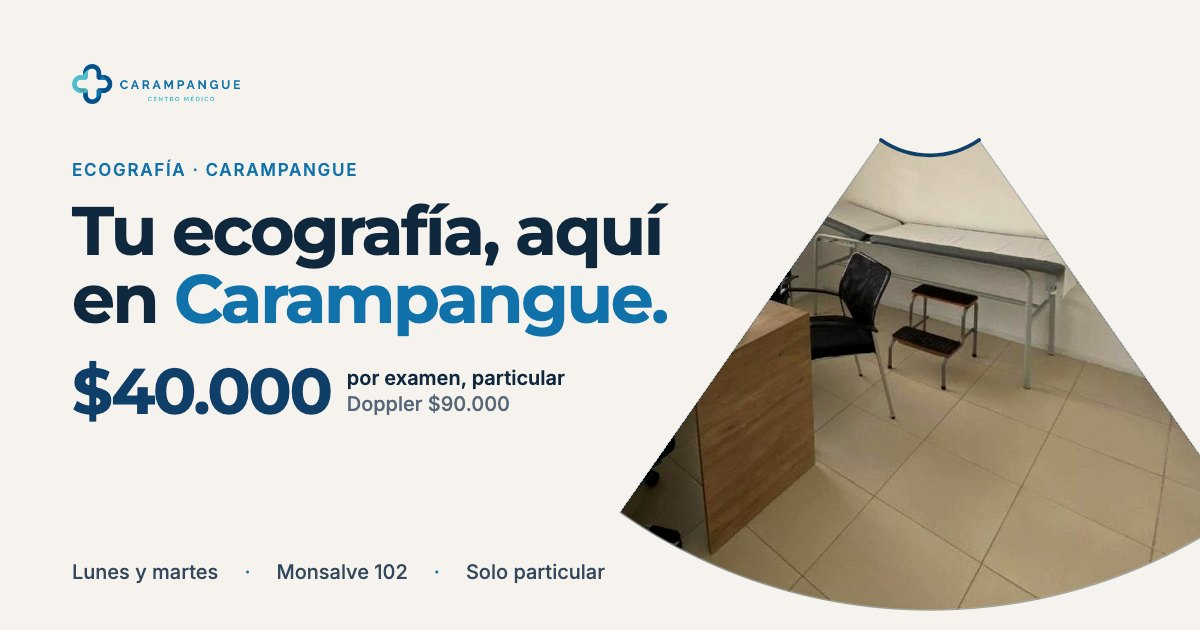
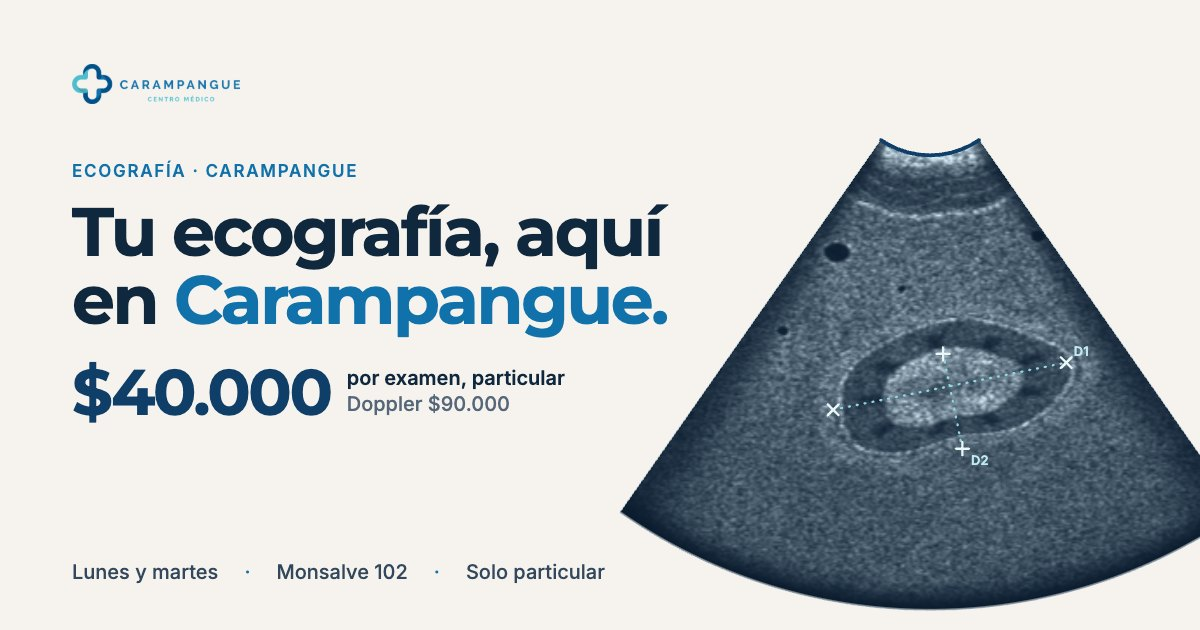
feat(web): ecografía — ilustración de eco en vez de foto del box vacío (hero + OG)

diff --git a/templates/landing_ecografia.html b/templates/landing_ecografia.html
@@ -135,9 +135,6 @@ j=d.createElement(s),dl=l!='dataLayer'?'&l='+l:'';j.async=true;j.src=
 </script>
 
 <link rel="preload" href="/static/fonts/montserrat-var-latin.woff2" as="font" type="font/woff2" crossorigin>
-<link rel="preload" as="image" type="image/webp"
-      imagesrcset="/static/images/ecografia/box-640.webp 640w, /static/images/ecografia/box-1000.webp 1000w, /static/images/ecografia/box-1280.webp 1280w"
-      imagesizes="(min-width: 980px) 46vw, 92vw" fetchpriority="high">
 
 <style>
 @font-face{font-family:'Montserrat';src:url('/static/fonts/montserrat-var-latin.woff2') format('woff2');font-weight:100 900;font-style:normal;font-display:swap;unicode-range:U+0000-00FF,U+0131,U+0152-0153,U+02BB-02BC,U+02C6,U+02DA,U+02DC,U+0304,U+0308,U+0329,U+2000-206F,U+20AC,U+2122,U+2191,U+2193,U+2212,U+2215,U+FEFF,U+FFFD}
@@ -246,14 +243,24 @@ svg.i{width:20px;height:20px;fill:none;stroke:currentColor;stroke-width:1.8;stro
   -webkit-mask-composite:source-in;
   mask-image:conic-gradient(from 145deg at 50% 0,#000 70deg,transparent 0),radial-gradient(87.2% 100% at 50% 0,transparent 15.6%,#000 16%,#000 99.6%,transparent 100%);
   mask-composite:intersect;background:var(--hueso-2)}
-.fan-img img{width:100%;height:100%;object-fit:cover;object-position:62% 60%;transform:scale(1.02);transition:transform 1.4s var(--ease);filter:brightness(1.07) contrast(1.05) saturate(1.06) sepia(.06)}
-.fan:hover .fan-img img{transform:scale(1.045)}
 .fan-img::after{content:"";position:absolute;inset:0;background:linear-gradient(180deg,rgba(15,63,104,0) 55%,rgba(15,63,104,.18) 100%);pointer-events:none}
 .fan-lines .probe{fill:none;stroke:var(--navy);stroke-width:4;stroke-linecap:round;vector-effect:non-scaling-stroke}
 .fan-lines{position:absolute;inset:0;width:100%;height:100%;overflow:visible;pointer-events:none}
 .fan-lines .ln{fill:none;stroke:var(--navy);stroke-opacity:.28;stroke-width:1.4;vector-effect:non-scaling-stroke}
 .fan-lines .tk{stroke:var(--azul);stroke-opacity:.7;stroke-width:1.4;vector-effect:non-scaling-stroke}
 .fan-lines .sw{fill:none;stroke:var(--aqua);stroke-width:2;vector-effect:non-scaling-stroke;stroke-dasharray:6 900;opacity:0}
+.fan-eco .fan-img{background:radial-gradient(70% 80% at 50% 30%,#163A57 0%,#0B263E 60%,#071A2B 100%)}
+.fan-eco .fan-img::after{background:radial-gradient(120% 95% at 50% 0,rgba(7,26,43,0) 55%,rgba(7,26,43,.55) 100%)}
+.fan-eco canvas{display:block;width:100%;height:100%}
+.fan-eco .tk{stroke:var(--aqua-2);stroke-opacity:.8}
+.fan-eco .sw{stroke:var(--aqua-2)}
+.cal-ln{fill:none;stroke:var(--aqua-2);stroke-width:1.8;stroke-dasharray:1 6;stroke-linecap:round;vector-effect:non-scaling-stroke}
+.cal-x,.cal-p{fill:none;stroke:#EAF7F9;stroke-width:1.8;stroke-linecap:round;vector-effect:non-scaling-stroke}
+.cal text{font:600 24px/1 var(--body);fill:#BFEAF0;letter-spacing:.04em}
+.eco-tag{position:absolute;left:4%;top:4%;font:600 11px/1 var(--body);letter-spacing:.12em;text-transform:uppercase;color:var(--gris)}
+.eco-tag::before{content:"";display:inline-block;width:6px;height:6px;border-radius:50%;background:var(--aqua);margin-right:8px;vertical-align:1px}
+.js .cal{opacity:0;transition:opacity .6s var(--ease) .5s}
+.js .fan-eco.drawn .cal{opacity:1}
 .hero-media{position:relative;margin:0 calc(var(--pad) * -.25)}
 @media (min-width:600px) and (max-width:979px){.hero-media{max-width:560px;margin:8px auto 0;width:100%}}
 .fan-cap{position:absolute;left:50%;transform:translateX(-50%);top:3.5%;font:600 11px/1 var(--body);letter-spacing:.09em;text-transform:uppercase;color:var(--navy);opacity:.7;white-space:nowrap}
@@ -560,13 +567,9 @@ height="0" width="0" style="display:none;visibility:hidden"></iframe></noscript>
     </div>
 
     <div class="hero-media">
-      <div class="fan" role="img" aria-label="Box de atención del Centro Médico Carampangue, con camilla y luz natural, enmarcado con la forma de una imagen de ecografía.">
-        <div class="fan-img">
-          <picture>
-            <source type="image/webp" sizes="(min-width: 980px) 46vw, 92vw" srcset="/static/images/ecografia/box-640.webp 640w, /static/images/ecografia/box-1000.webp 1000w, /static/images/ecografia/box-1280.webp 1280w">
-            <img src="/static/images/ecografia/box-1000.jpg" width="1000" height="635" alt="" fetchpriority="high" decoding="async">
-          </picture>
-        </div>
+      <div class="fan fan-eco" role="img" aria-label="Ilustración de una imagen de ecografía: un riñón con dos medidas de ejemplo marcadas con líneas punteadas.">
+        <span class="eco-tag" aria-hidden="true">Ilustración</span>
+        <div class="fan-img"><canvas id="eco-cv" width="360" height="314" aria-hidden="true"></canvas></div>
         <svg class="fan-lines" viewBox="0 0 1147 1000" preserveAspectRatio="none" aria-hidden="true">
           <path class="ln" d="M482.7 129.6 L0 818.6 M664.3 129.6 L1147 818.6"/>
           <path class="probe" d="M482.7 129.6 A160 160 0 0 0 664.3 129.6"/>
@@ -575,7 +578,95 @@ height="0" width="0" style="display:none;visibility:hidden"></iframe></noscript>
             <line x1="701" y1="182" x2="716" y2="172"/><line x1="758" y1="264" x2="773" y2="254"/><line x1="816" y1="346" x2="831" y2="336"/><line x1="873" y1="428" x2="888" y2="418"/><line x1="930" y1="510" x2="945" y2="500"/><line x1="988" y1="592" x2="1003" y2="582"/><line x1="1045" y1="674" x2="1060" y2="664"/><line x1="1102" y1="756" x2="1117" y2="746"/>
           </g>
           <path class="sw" d="M330 500 A600 600 0 0 0 817 500"/>
+          <g class="cal">
+            <path class="cal-ln" d="M394.4 628.7 L825.6 541.3"/>
+            <path class="cal-ln" d="M597.8 524.9 L633.4 700.6"/>
+            <path class="cal-x" d="M384.4 618.7 l20 20 m0 -20 l-20 20 M815.6 531.3 l20 20 m0 -20 l-20 20"/>
+            <path class="cal-p" d="M585.8 524.9 h24 m-12 -12 v24 M621.4 700.6 h24 m-12 -12 v24"/>
+            <text x="839.6" y="529.3">D1</text>
+            <text x="649.4" y="730.6">D2</text>
+          </g>
         </svg>
+        <script>(function(){
+  var c = document.getElementById('eco-cv'); if (!c || !c.getContext) return;
+  function paint(){
+    var W = 360, H = 314, S = 1147 / W;
+    c.width = W; c.height = H;
+    var ctx = c.getContext('2d'), img = ctx.createImageData(W, H), d = img.data;
+    var seed = 20261006; function rnd(){ seed = seed + 0x6D2B79F5 | 0; var t = Math.imul(seed ^ seed >>> 15, 1 | seed); t = t + Math.imul(t ^ t >>> 7, 61 | t) ^ t; return ((t ^ t >>> 14) >>> 0) / 4294967296; }
+    function ss(a, b, x){ x = Math.min(1, Math.max(0, (x - a) / (b - a))); return x * x * (3 - 2 * x); }
+    function fbm(x, y){ return Math.sin(x * .013 + Math.sin(y * .021) * 1.7) * .5 + Math.sin(y * .019 + x * .006 + 1.3) * .3 + Math.sin((x + y) * .031) * .2; }
+    var ax = 573.5, cx = 610, cy = 585, A = 220, B = 118, ca = Math.cos(-0.2), sa = Math.sin(-0.2);
+    var V = [[400,335,26,19],[772,305,15,12],[300,480,12,9],[520,402,9,7]];
+    var row = new Float32Array(W), prev = new Float32Array(W);
+    var y = 0;
+    function fila(){
+      for (var x = 0; x < W; x++){
+        var X = x * S, Y = y * S, dx = X - ax, r = Math.sqrt(dx * dx + Y * Y) / 1000, th = Math.atan2(dx, Y);
+        var w = Math.sin(th * 7 + 1.1) * .004 + Math.sin(th * 13) * .002;
+        // capas superficiales: piel, grasa con tabiques, fascia, músculo; después hígado
+        var e = .44 * (1 + .1 * fbm(X, Y));
+        var rr = r + w;
+        var skin = 1 - ss(.168, .2, rr), fat = ss(.19, .205, rr) * (1 - ss(.255, .27, rr));
+        var streak = Math.max(0, Math.sin(rr * 210 + Math.sin(th * 5) * 2.2) - .82) * 2.6;
+        var fascia = Math.exp(-Math.pow((rr - .272) / .007, 2)), musc = ss(.27, .28, rr) * (1 - ss(.32, .345, rr));
+        e = e * (1 - fat - musc) + fat * (.2 + streak * .5) + musc * (.36 + Math.max(0, Math.sin(rr * 420 + th * 3)) * .12);
+        e = Math.max(e, skin * .92, fascia * .78);
+        // vasos: anecoicos, pared fina y refuerzo posterior
+        for (var k = 0; k < 4; k++){
+          var v = V[k], vx = (X - v[0]) / v[2], vy = (Y - v[1]) / v[3], vr = Math.sqrt(vx * vx + vy * vy);
+          if (vr < 1.35){ var inside = 1 - ss(.82, 1.02, vr); e = e * (1 - inside) + .025 * inside; e += Math.exp(-Math.pow((vr - 1.08) / .1, 2)) * .35; }
+          else if (Y > v[1] && Math.abs(X - v[0]) < v[2] * .9 && Y - v[1] < 240) e *= 1 + .22 * (1 - (Y - v[1]) / 240);
+        }
+        // riñón en eje largo: contorno de poroto, cápsula, corteza, pirámides y seno
+        var px = (X - cx) * ca + (Y - cy) * sa, py = -(X - cx) * sa + (Y - cy) * ca;
+        var ang = Math.atan2(py / B, px / A), rho = Math.sqrt(px * px / (A * A) + py * py / (B * B));
+        var R = 1 + .045 * Math.sin(3 * ang + .7) + .025 * Math.sin(5 * ang + 2) - .17 * Math.exp(-Math.pow(ang - 1.57, 2) / .16);
+        var t = rho / R;
+        if (t < 1.25){
+          var fatR = ss(1.04, 1.08, t) * (1 - ss(1.16, 1.25, t));
+          var caps = Math.exp(-Math.pow((t - 1.0) / .035, 2));
+          var cortex = ss(.58, .66, t) * (1 - ss(.95, .99, t));
+          var pyr = Math.max(0, Math.cos(9 * (ang + .25)) - .35) / .65 * ss(.58, .64, t) * (1 - ss(.78, .86, t));
+          var sinus = 1 - ss(.56, .64, t);
+          var inner = (.28 + .04 * fbm(X * 2, Y * 2)) * (1 - pyr * .7);
+          var sin = .58 + .3 * (fbm(X * 3.1, Y * 2.7) * .5 + .5) - .35 * Math.exp(-Math.pow(py / (B * .14), 2) - Math.pow(px / (A * .42), 2));
+          var kid = cortex * inner + sinus * sin;
+          var inK = 1 - ss(.97, 1.02, t);
+          e = e * (1 - inK) * (1 - fatR) + fatR * .58 + inK * kid;
+          e = Math.max(e, caps * .9);
+        }
+        // atenuación en profundidad y en los bordes del sector
+        e *= 1 - Math.max(0, r - .4) * .6;
+        e *= 1 - ss(.47, .61, Math.abs(th)) * .75;
+        e *= 1 - ss(.93, 1.0, r);
+        var u = rnd() || 1e-6; row[x] = e * Math.sqrt(-2 * Math.log(u)) * .62;
+      }
+      for (var x2 = 0; x2 < W; x2++){
+        var a = row[x2 > 0 ? x2 - 1 : 0], b = row[x2], cc = row[x2 < W - 1 ? x2 + 1 : x2];
+        var h = (a + 2 * b + cc) / 4, val = h * .7 + prev[x2] * .3; prev[x2] = h;
+        val = Math.min(1, Math.pow(Math.max(0, val), .92));
+        var i = (y * W + x2) * 4;
+        d[i] = 9 + val * 205; d[i + 1] = 27 + val * 207; d[i + 2] = 45 + val * 200; d[i + 3] = 255;
+      }
+    }
+    c.classList.add('on');
+    function tramo(){
+      var y0 = y, t0 = performance.now();
+      while (y < H && performance.now() - t0 < 10){ fila(); y++; }
+      ctx.putImageData(img, 0, 0, 0, y0, W, y - y0);
+      if (y < H) requestAnimationFrame(tramo);
+      else { var f = c.closest('.fan'); if (f) f.classList.add('drawn'); }
+    }
+    requestAnimationFrame(tramo);
+  }
+  function go(){
+    if (!('IntersectionObserver' in window) || !window.requestAnimationFrame) return paint();
+    var io = new IntersectionObserver(function(es){ if (es[0].isIntersecting){ io.disconnect(); paint(); } }, {rootMargin:'300px 0px'});
+    io.observe(c);
+  }
+  if (document.readyState === 'complete') go(); else window.addEventListener('load', go);
+})();</script>
       </div>
       <a class="peek" href="#que-eco">
         <span class="ic"><svg class="i" aria-hidden="true"><use href="#i-ayuno"/></svg></span>
